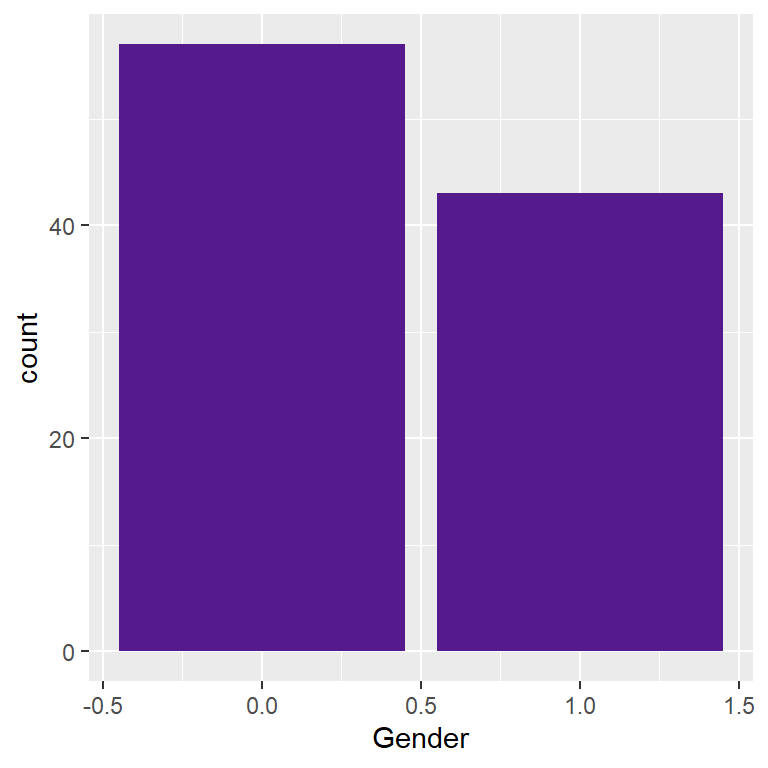
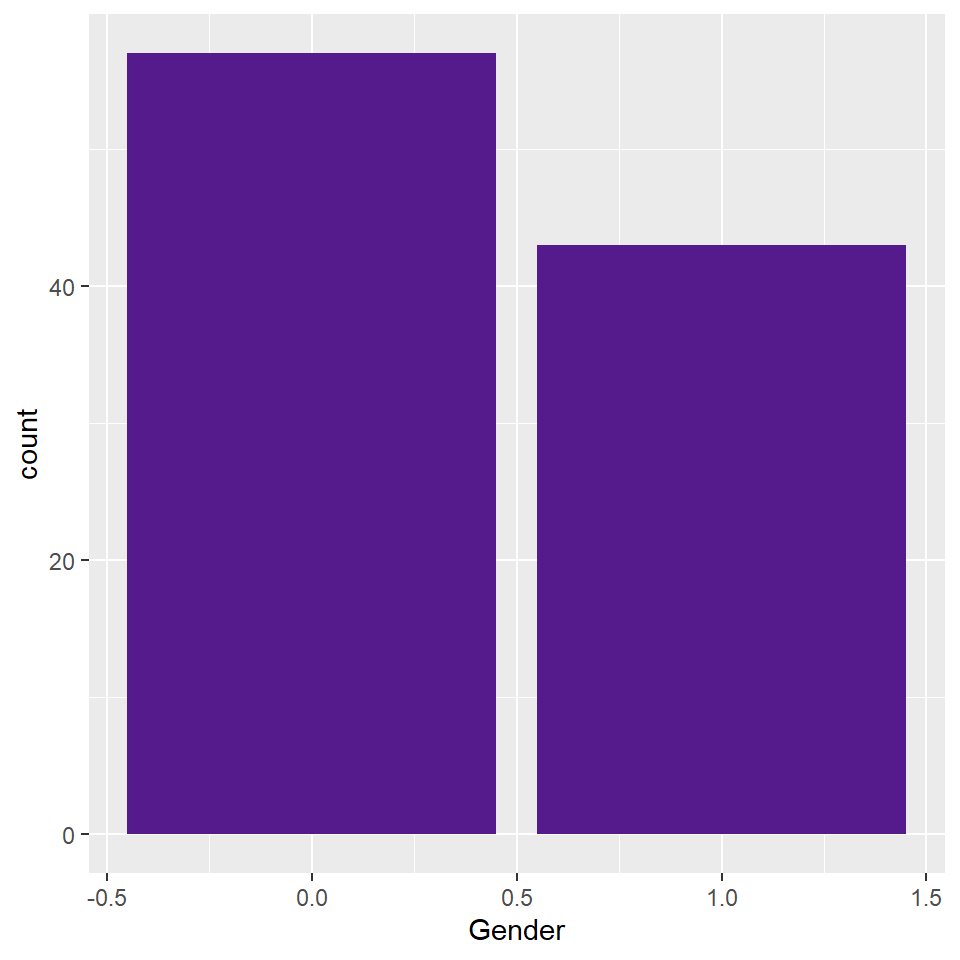
Blog ups

diff --git a/Blog.html b/Blog.html
@@ -604,11 +604,11 @@ div.tocify {
 <div class="sourceCode" id="cb8"><pre class="sourceCode r"><code class="sourceCode r"><span id="cb8-1"><a href="#cb8-1"></a>dem.data <span class="op">%&gt;%</span></span>
 <span id="cb8-2"><a href="#cb8-2"></a><span class="st">  </span><span class="kw">ggplot</span>(<span class="kw">aes</span>(gender)) <span class="op">+</span></span>
 <span id="cb8-3"><a href="#cb8-3"></a><span class="st">  </span><span class="kw">geom_bar</span>(<span class="dt">fill =</span> <span class="st">&quot;navyblue&quot;</span>)</span></code></pre></div>
-<p><img src="Blog_files/figure-html/unnamed-chunk-5-1.png" width="384" /></p>
+<p><img src="Blog_files/figure-html/unnamed-chunk-5-1.png" width="480" /></p>
 <div class="sourceCode" id="cb9"><pre class="sourceCode r"><code class="sourceCode r"><span id="cb9-1"><a href="#cb9-1"></a>dem.data <span class="op">%&gt;%</span></span>
 <span id="cb9-2"><a href="#cb9-2"></a><span class="st">  </span><span class="kw">ggplot</span>(<span class="kw">aes</span>(marital.status)) <span class="op">+</span></span>
 <span id="cb9-3"><a href="#cb9-3"></a><span class="st">  </span><span class="kw">geom_bar</span>(<span class="dt">fill =</span> <span class="st">&quot;lawngreen&quot;</span>)</span></code></pre></div>
-<p><img src="Blog_files/figure-html/unnamed-chunk-5-2.png" width="384" /></p>
+<p><img src="Blog_files/figure-html/unnamed-chunk-5-2.png" width="480" /></p>
 <p>As a data analyst you might have prior knowledge of the variable meanings as indicated in the metadata or codebook. However, a reader or the audience might not understand the two plot because they don’t know what 0 and 1 mean in gender and 1, 2, and 3 in marital status, hence the need to recode variable.</p>
 </div>
 <div id="recode-gender-and-marital-status-recode-number-to-factor" class="section level2">
@@ -627,12 +627,12 @@ div.tocify {
 <span id="cb10-12"><a href="#cb10-12"></a><span class="st">  </span><span class="kw">ggplot</span>(<span class="kw">aes</span>(gender.cat)) <span class="op">+</span></span>
 <span id="cb10-13"><a href="#cb10-13"></a><span class="st">  </span><span class="kw">geom_bar</span>(<span class="dt">fill =</span> <span class="st">&quot;cornflowerblue&quot;</span>) <span class="op">+</span></span>
 <span id="cb10-14"><a href="#cb10-14"></a><span class="st">  </span><span class="kw">xlab</span>(<span class="st">&quot;Gender&quot;</span>)</span></code></pre></div>
-<p><img src="Blog_files/figure-html/unnamed-chunk-6-1.png" width="384" /></p>
+<p><img src="Blog_files/figure-html/unnamed-chunk-6-1.png" width="480" /></p>
 <div class="sourceCode" id="cb11"><pre class="sourceCode r"><code class="sourceCode r"><span id="cb11-1"><a href="#cb11-1"></a>dem.data <span class="op">%&gt;%</span></span>
 <span id="cb11-2"><a href="#cb11-2"></a><span class="st">  </span><span class="kw">ggplot</span>(<span class="kw">aes</span>(marital.status.cat)) <span class="op">+</span></span>
 <span id="cb11-3"><a href="#cb11-3"></a><span class="st">  </span><span class="kw">geom_bar</span>(<span class="dt">fill =</span> <span class="st">&quot;brown&quot;</span>) <span class="op">+</span></span>
 <span id="cb11-4"><a href="#cb11-4"></a><span class="st">  </span><span class="kw">xlab</span>(<span class="st">&quot;Marital Status&quot;</span>)</span></code></pre></div>
-<p><img src="Blog_files/figure-html/unnamed-chunk-6-2.png" width="384" /></p>
+<p><img src="Blog_files/figure-html/unnamed-chunk-6-2.png" width="480" /></p>
 <p>The audience can easily understand the two graphs as the labels are defined.</p>
 </div>
 <div id="recode-gender-and-marital-status-factor-to-number" class="section level2">
@@ -651,12 +651,12 @@ div.tocify {
 <span id="cb12-12"><a href="#cb12-12"></a><span class="st">  </span><span class="kw">ggplot</span>(<span class="kw">aes</span>(gender.num)) <span class="op">+</span></span>
 <span id="cb12-13"><a href="#cb12-13"></a><span class="st">  </span><span class="kw">geom_bar</span>(<span class="dt">fill =</span> <span class="st">&quot;purple4&quot;</span>) <span class="op">+</span></span>
 <span id="cb12-14"><a href="#cb12-14"></a><span class="st">  </span><span class="kw">xlab</span>(<span class="st">&quot;Gender&quot;</span>)</span></code></pre></div>
-<p><img src="Blog_files/figure-html/unnamed-chunk-7-1.png" width="384" /></p>
+<p><img src="Blog_files/figure-html/unnamed-chunk-7-1.png" width="480" /></p>
 <div class="sourceCode" id="cb13"><pre class="sourceCode r"><code class="sourceCode r"><span id="cb13-1"><a href="#cb13-1"></a>dem.data <span class="op">%&gt;%</span></span>
 <span id="cb13-2"><a href="#cb13-2"></a><span class="st">  </span><span class="kw">ggplot</span>(<span class="kw">aes</span>(marital.status.num)) <span class="op">+</span></span>
 <span id="cb13-3"><a href="#cb13-3"></a><span class="st">  </span><span class="kw">geom_bar</span>(<span class="dt">fill =</span> <span class="st">&quot;goldenrod4&quot;</span>) <span class="op">+</span></span>
 <span id="cb13-4"><a href="#cb13-4"></a><span class="st">  </span><span class="kw">xlab</span>(<span class="st">&quot;Marital Status&quot;</span>)</span></code></pre></div>
-<p><img src="Blog_files/figure-html/unnamed-chunk-7-2.png" width="384" /></p>
+<p><img src="Blog_files/figure-html/unnamed-chunk-7-2.png" width="480" /></p>
 <div class="sourceCode" id="cb14"><pre class="sourceCode r"><code class="sourceCode r"><span id="cb14-1"><a href="#cb14-1"></a>p =<span class="st"> </span><span class="kw">vtree</span>(dem.data, <span class="st">&quot;gender.cat marital.status.cat&quot;</span>)</span></code></pre></div>
 <p>Happy Coding !!!</p>
 </div>
